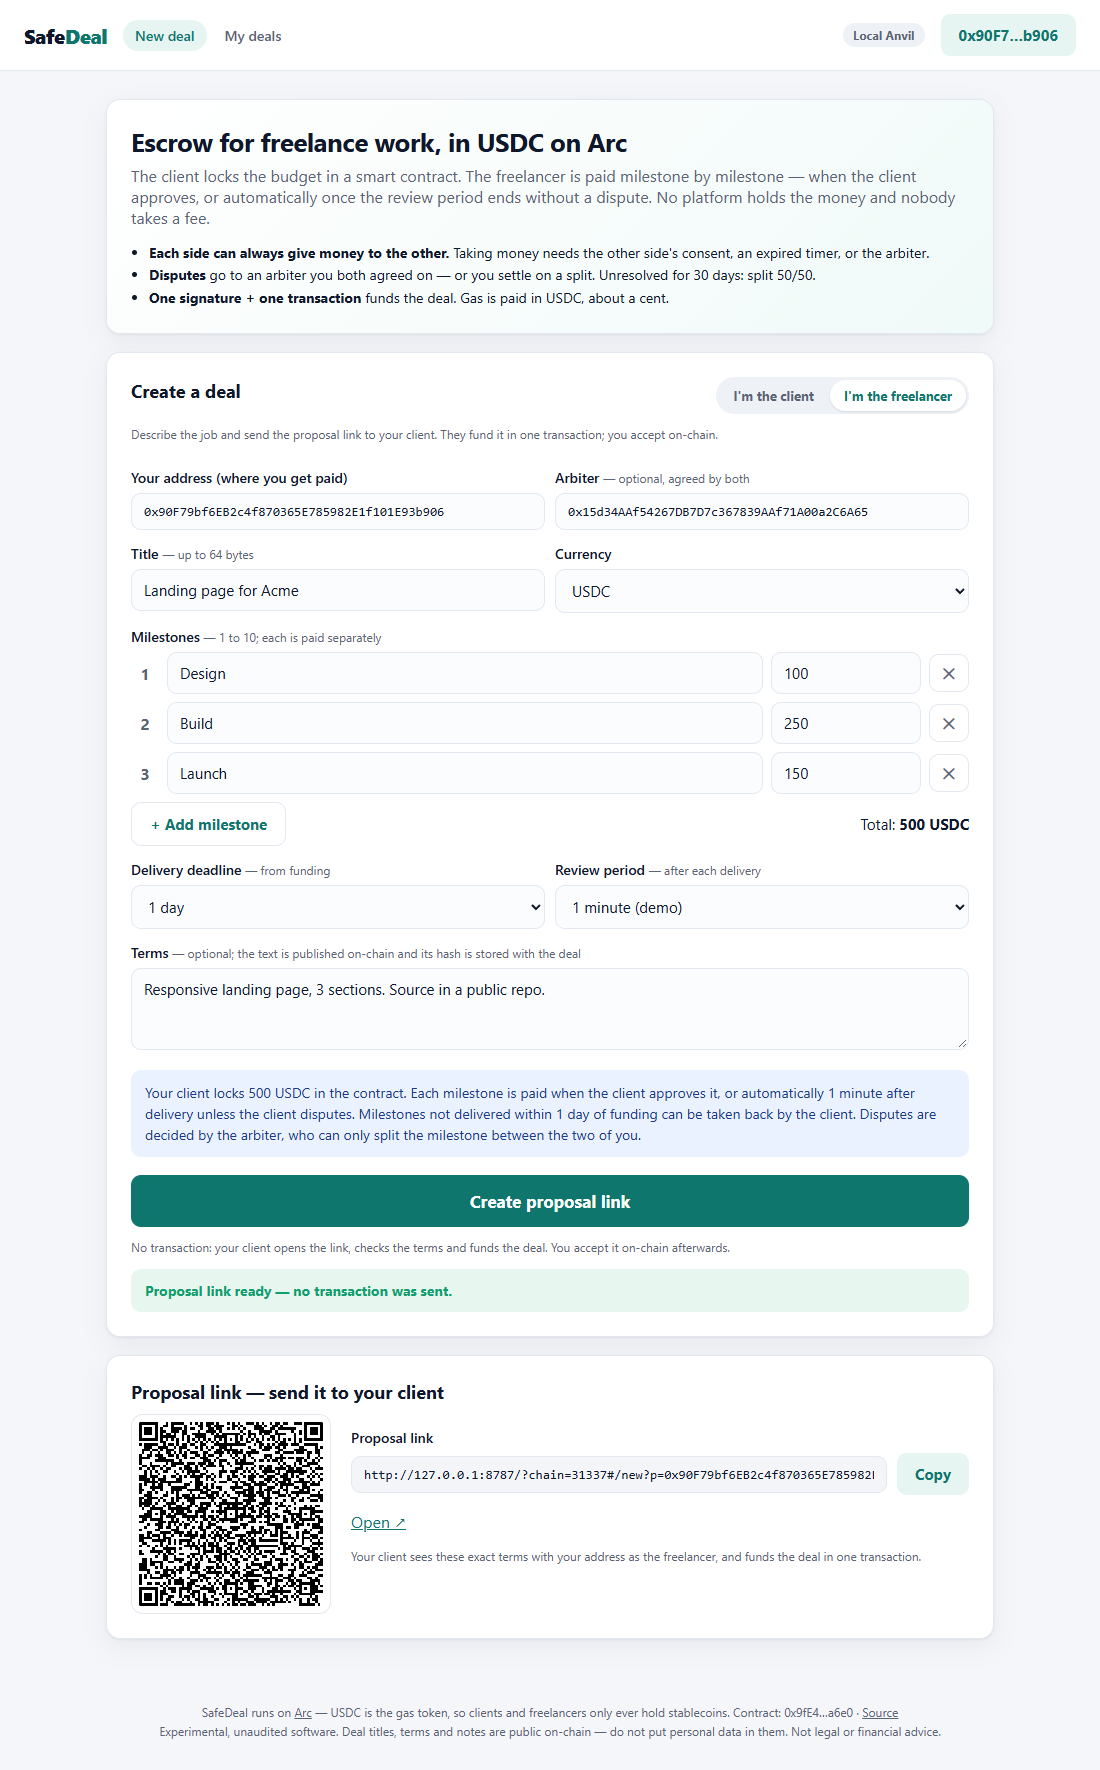
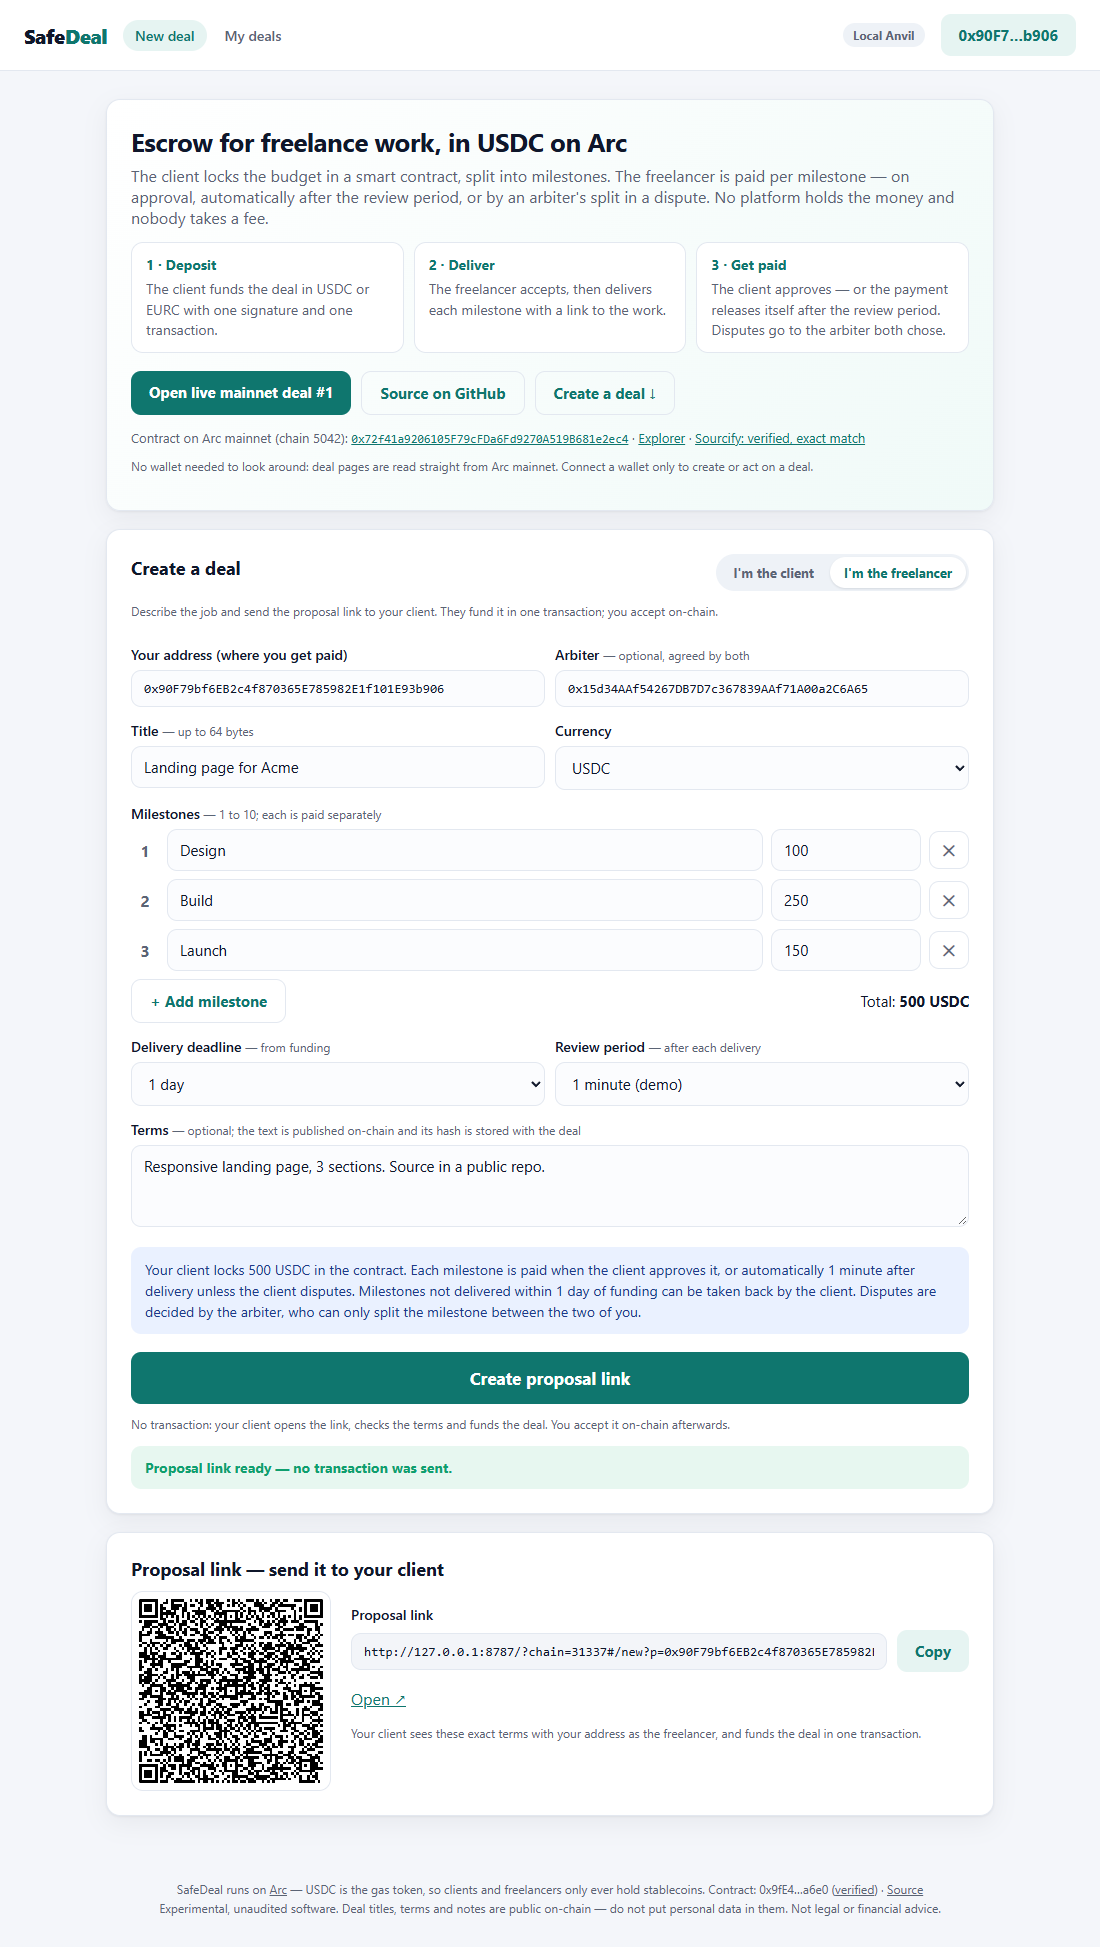
Web: static landing readable without a wallet; contract address in the footer
The home screen now explains SafeDeal in three steps, links to the live mainnet
deal #1, the source and the verified contract (explorer + Sourcify), and stays
readable with JavaScript disabled. The footer shows the contract address up front.
A locked or slow wallet can no longer keep the page blank (1.5 s cap on
eth_accounts), and an RPC error no longer hides every view.

diff --git a/web/index.html b/web/index.html
@@ -25,18 +25,30 @@
   </header>
 
   <main>
+    <!-- ============================================================ INTRO (static: readable without a wallet or JS) -->
+    <section id="intro" class="card hero">
+      <h1>Escrow for freelance work, in USDC on Arc</h1>
+      <p class="lead">The client locks the budget in a smart contract, split into milestones. The freelancer is paid per milestone — on approval, automatically after the review period, or by an arbiter's split in a dispute. No platform holds the money and nobody takes a fee.</p>
+      <ol class="steps">
+        <li><b>1 · Deposit</b><span>The client funds the deal in USDC or EURC with one signature and one transaction.</span></li>
+        <li><b>2 · Deliver</b><span>The freelancer accepts, then delivers each milestone with a link to the work.</span></li>
+        <li><b>3 · Get paid</b><span>The client approves — or the payment releases itself after the review period. Disputes go to the arbiter both chose.</span></li>
+      </ol>
+      <div class="cta">
+        <a class="btn" href="#/deal/1?c=5042" id="cta-deal">Open live mainnet deal #1</a>
+        <a class="btn ghost" href="https://github.com/Minkhanov/safedeal-arc" target="_blank" rel="noopener">Source on GitHub</a>
+        <a class="btn ghost" href="#form-deal" id="cta-create">Create a deal ↓</a>
+      </div>
+      <p class="contract-line">Contract on Arc mainnet (chain 5042):
+        <a class="mono" href="https://explorer.arc.io/address/0x72f41a9206105F79cFDa6Fd9270A519B681e2ec4" target="_blank" rel="noopener">0x72f41a9206105F79cFDa6Fd9270A519B681e2ec4</a>
+        · <a href="https://explorer.arc.io/address/0x72f41a9206105F79cFDa6Fd9270A519B681e2ec4" target="_blank" rel="noopener">Explorer</a>
+        · <a href="https://sourcify.dev/#/lookup/0x72f41a9206105F79cFDa6Fd9270A519B681e2ec4" target="_blank" rel="noopener">Sourcify: verified, exact match</a>
+      </p>
+      <p class="hint">No wallet needed to look around: deal pages are read straight from Arc mainnet. Connect a wallet only to create or act on a deal.</p>
+    </section>
+
     <!-- ============================================================ NEW DEAL -->
     <section id="view-new" hidden>
-      <div class="card hero">
-        <h1>Escrow for freelance work, in USDC on Arc</h1>
-        <p class="lead">The client locks the budget in a smart contract. The freelancer is paid milestone by milestone — when the client approves, or automatically once the review period ends without a dispute. No platform holds the money and nobody takes a fee.</p>
-        <ul class="points">
-          <li><b>Each side can always give money to the other.</b> Taking money needs the other side's consent, an expired timer, or the arbiter.</li>
-          <li><b>Disputes</b> go to an arbiter you both agreed on — or you settle on a split. Unresolved for 30 days: split 50/50.</li>
-          <li><b>One signature + one transaction</b> funds the deal. Gas is paid in USDC, about a cent.</li>
-        </ul>
-      </div>
-
       <div class="card" id="proposal-banner" hidden>
         <div class="status warn" id="proposal-text"></div>
       </div>
@@ -232,7 +244,8 @@
 
   <footer>
     SafeDeal runs on <a href="https://arc.io" target="_blank" rel="noopener">Arc</a> — USDC is the gas token, so clients and freelancers only ever hold stablecoins.
-    Contract: <a id="ft-contract" href="#" target="_blank" rel="noopener">—</a> ·
+    Contract: <a id="ft-contract" href="https://explorer.arc.io/address/0x72f41a9206105F79cFDa6Fd9270A519B681e2ec4" target="_blank" rel="noopener">0x72f4…2ec4</a>
+    (<a href="https://sourcify.dev/#/lookup/0x72f41a9206105F79cFDa6Fd9270A519B681e2ec4" target="_blank" rel="noopener">verified</a>) ·
     <a href="https://github.com/Minkhanov/safedeal-arc" target="_blank" rel="noopener" id="ft-source">Source</a><br>
     Experimental, unaudited software. Deal titles, terms and notes are public on-chain — do not put personal data in them. Not legal or financial advice.
   </footer>

diff --git a/web/app.js b/web/app.js
@@ -1156,12 +1156,14 @@
   async function route() {
     stopPoll();
     closePanel();
-    await initNetwork();
     const { path, params } = parseHash();
     for (const v of ["new", "deal", "my"]) $(`view-${v}`).hidden = true;
     document.querySelectorAll("nav a").forEach((a) => a.classList.remove("active"));
     const activate = (name) => { const a = document.querySelector(`nav a[data-nav="${name}"]`); if (a) a.classList.add("active"); };
+    const isHome = !/^\/(deal|my)/.test(path);
+    $("intro").hidden = !isHome;
     try {
+      await initNetwork();
       const m = path.match(/^\/deal\/(\d+)$/);
       if (m) {
         $("view-deal").hidden = false;
@@ -1192,6 +1194,11 @@
       try { await connectWallet(); await route(); } catch (e) { toast(friendlyError(e)); }
     });
     $("form-deal").addEventListener("submit", onFundPermit);
+    $("cta-create").addEventListener("click", (ev) => {
+      ev.preventDefault(); // keep the hash router's URL; just scroll to the form
+      if (!/^#\/?($|new)/.test(window.location.hash || "#/")) window.location.hash = "#/";
+      setTimeout(() => $("form-deal").scrollIntoView({ behavior: "smooth", block: "start" }), 50);
+    });
     $("btn-fund-approve").addEventListener("click", onFundApprove);
     $("btn-proposal").addEventListener("click", onProposal);
     $("btn-add-ms").addEventListener("click", () => { addMilestoneRow(); updateSummary(); });
@@ -1217,14 +1224,16 @@
       });
       window.ethereum.on("chainChanged", () => { state.signer = null; });
     }
-    // Reconnect silently if the wallet already authorised this site.
+    // Reconnect silently if the wallet already authorised this site. A locked or slow wallet must
+    // never keep the page blank, so the page renders after at most 1.5 s either way.
     if (window.ethereum) {
-      window.ethereum.request({ method: "eth_accounts" }).then((accs) => {
+      const accounts = window.ethereum.request({ method: "eth_accounts" }).then((accs) => {
         if (accs && accs[0]) {
           state.account = ethers.getAddress(accs[0]);
           $("btn-connect").textContent = short(state.account);
         }
-      }).catch(() => {}).finally(route);
+      }).catch(() => {});
+      Promise.race([accounts, sleep(1500)]).finally(route);
     } else {
       route();
     }

diff --git a/web/styles.css b/web/styles.css
@@ -52,7 +52,19 @@ h1 { font-size: 26px; letter-spacing: -0.02em; margin: 0 0 6px; }
 h2 { font-size: 18px; margin: 0 0 10px; }
 h3 { font-size: 16px; margin: 0 0 6px; }
 p.lead { color: var(--muted); margin: 0 0 14px; }
-.points { margin: 0; padding-left: 18px; color: var(--ink); font-size: 14px; line-height: 1.6; }
+.steps { list-style: none; margin: 0 0 18px; padding: 0; display: grid; grid-template-columns: repeat(3, 1fr); gap: 10px; }
+.steps li { background: #ffffff; border: 1px solid var(--line); border-radius: 12px; padding: 12px 14px; font-size: 14px; line-height: 1.45; }
+.steps b { display: block; color: var(--accent); margin-bottom: 4px; }
+.steps span { color: var(--muted); }
+@media (max-width: 640px) { .steps { grid-template-columns: 1fr; } }
+.cta { display: flex; gap: 10px; flex-wrap: wrap; margin-bottom: 14px; }
+a.btn {
+  display: inline-block; text-decoration: none; font-weight: 700; font-size: 15px; border-radius: 10px; padding: 11px 18px;
+  background: var(--accent); color: var(--accent-ink);
+}
+a.btn.ghost { background: transparent; color: var(--accent); border: 1px solid var(--line); }
+.contract-line { font-size: 13px; color: var(--muted); margin: 0 0 6px; word-break: break-word; }
+.contract-line a.mono { font-size: 12px; }
 
 label { display: block; font-weight: 600; font-size: 14px; margin: 14px 0 6px; }
 .hint { color: var(--muted); font-size: 12px; font-weight: 400; }
